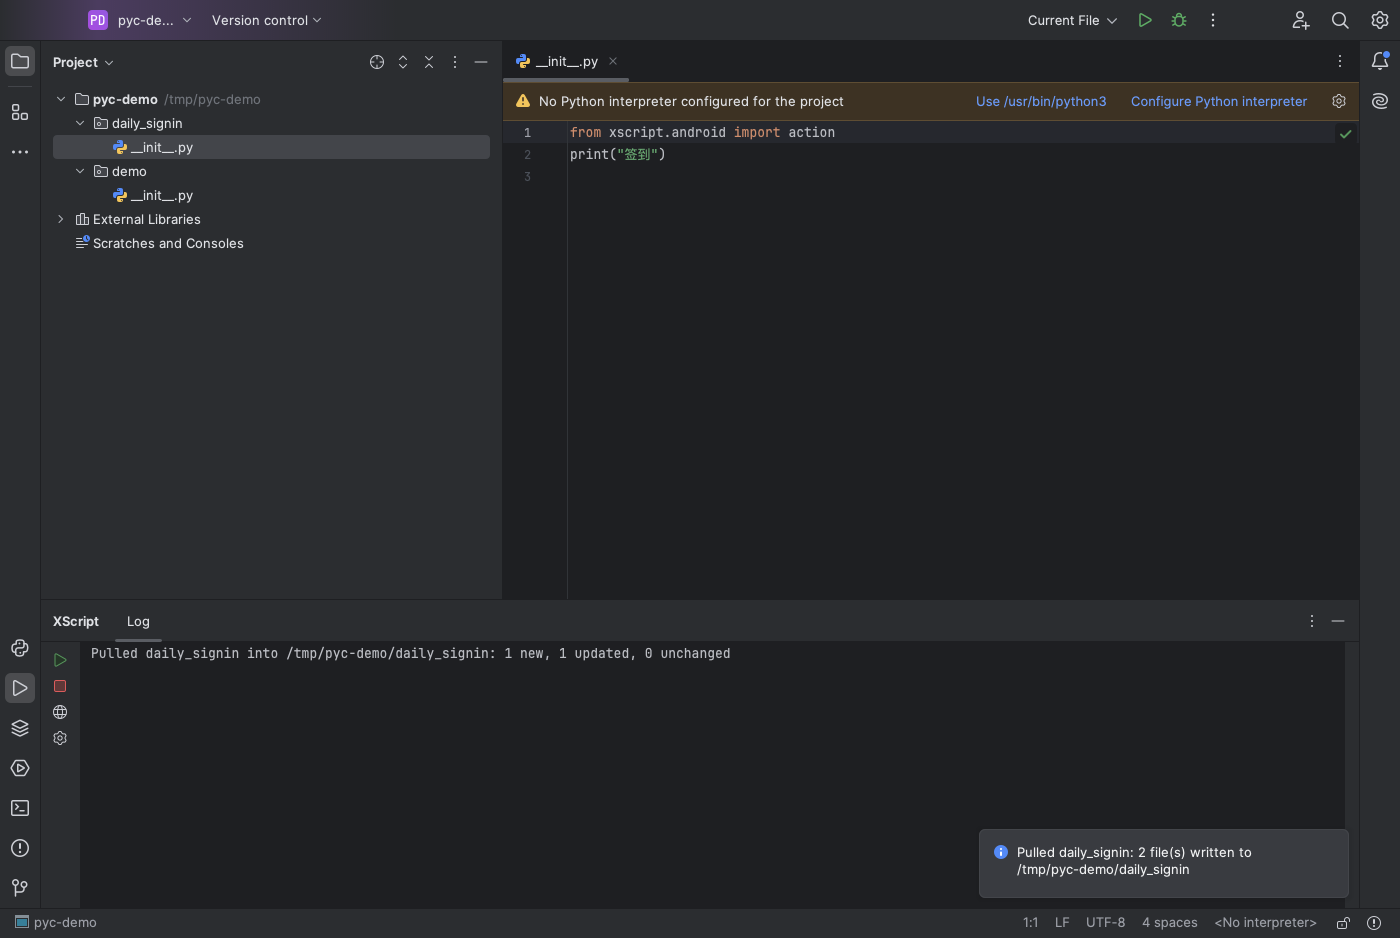
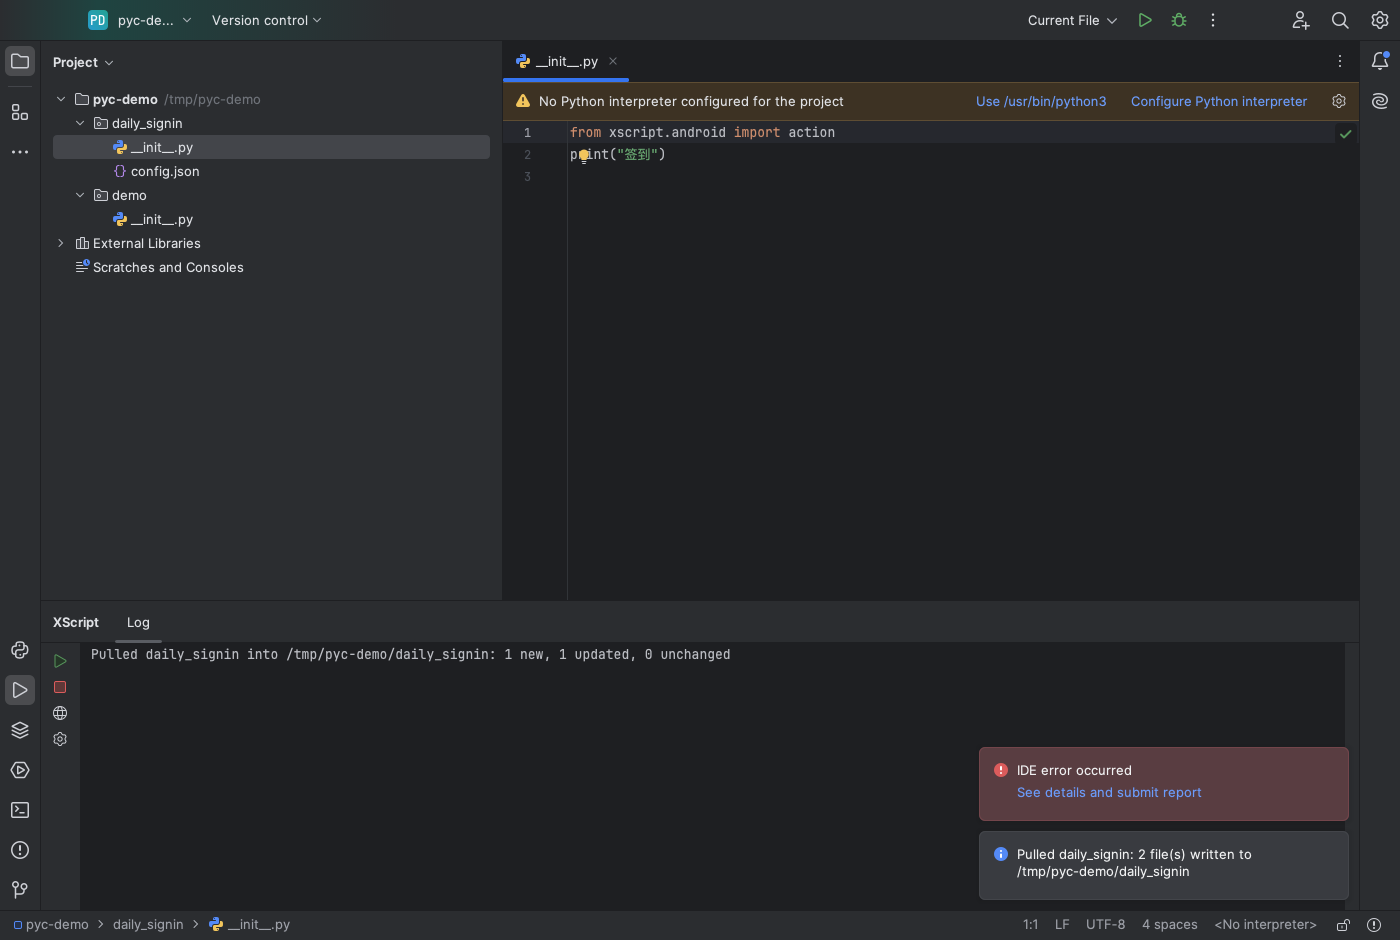
fix(pycharm): show pulled files in the project tree right away

diff --git a/ide/pycharm-plugin/src/test/kotlin/com/xscript/pycharm/PulledFilesTest.kt b/ide/pycharm-plugin/src/test/kotlin/com/xscript/pycharm/PulledFilesTest.kt
@@ -1,0 +1,40 @@
+package com.xscript.pycharm
+
+import com.intellij.openapi.application.ApplicationManager
+import com.intellij.openapi.fileEditor.FileDocumentManager
+import com.intellij.openapi.vfs.LocalFileSystem
+import com.intellij.testFramework.fixtures.BasePlatformTestCase
+import java.nio.file.Files
+
+/** After a pull the IDE already knows the new files and open documents show the new text, without any further refresh. */
+class PulledFilesTest : BasePlatformTestCase() {
+    fun testPulledFilesAreVisibleToTheIdeImmediately() {
+        val root = Files.createTempDirectory("xs-pulled-")
+        com.intellij.openapi.vfs.newvfs.impl.VfsRootAccess.allowRootAccess(testRootDisposable, root.toRealPath().toString())
+        try {
+            Files.writeString(root.resolve("__init__.py"), "print('old')\n")
+            val lfs = LocalFileSystem.getInstance()
+            val init = lfs.refreshAndFindFileByNioFile(root.resolve("__init__.py"))!!
+            val doc = FileDocumentManager.getInstance().getDocument(init)!!   // like an open editor
+            assertEquals("print('old')\n", doc.text)
+            assertNull(lfs.findFileByNioFile(root.resolve("config.json")))
+
+            val pulled = listOf(
+                ProjectPull.PulledFile("__init__.py", "print('new')\n".toByteArray()),
+                ProjectPull.PulledFile("config.json", "{}\n".toByteArray()),
+                ProjectPull.PulledFile("lib/a.py", "A = 1\n".toByteArray()),
+            )
+            var written = 0
+            // the pull runs in a background task; its synchronous refresh needs the EDT (this thread), so keep pumping events
+            val f = ApplicationManager.getApplication().executeOnPooledThread { written = PulledFiles.writeAndRefresh(project, root, pulled) }
+            com.intellij.testFramework.PlatformTestUtil.waitForFuture(f, 30_000)
+            assertEquals(3, written)
+            // no refresh here: the pull itself must have made them known
+            assertNotNull(lfs.findFileByNioFile(root.resolve("config.json")))
+            assertNotNull(lfs.findFileByNioFile(root.resolve("lib/a.py")))
+            assertEquals("print('new')\n", FileDocumentManager.getInstance().getDocument(init)!!.text)
+        } finally {
+            root.toFile().deleteRecursively()
+        }
+    }
+}

diff --git a/ide/pycharm-plugin/src/main/kotlin/com/xscript/pycharm/PulledFiles.kt b/ide/pycharm-plugin/src/main/kotlin/com/xscript/pycharm/PulledFiles.kt
@@ -1,0 +1,23 @@
+package com.xscript.pycharm
+
+import com.intellij.ide.projectView.ProjectView
+import com.intellij.openapi.application.ApplicationManager
+import com.intellij.openapi.project.Project
+import com.intellij.openapi.vfs.LocalFileSystem
+import com.intellij.openapi.vfs.VfsUtil
+import java.nio.file.Path
+
+/** IDE side of a pull: write the files, then make the VFS, open editors and the project tree show them right away. */
+object PulledFiles {
+    /**
+     * Writes new / changed files, rescans the folder synchronously (call it off the EDT, outside a read action), and asks the
+     * project view to rebuild: on its own the tree only noticed a pulled file after several seconds. Returns how many were written.
+     */
+    fun writeAndRefresh(project: Project, root: Path, pulled: List<ProjectPull.PulledFile>,
+                        diff: ProjectPull.Diff = ProjectPull.diff(root, pulled)): Int {
+        val written = ProjectPull.write(root, pulled, diff)
+        LocalFileSystem.getInstance().refreshAndFindFileByNioFile(root)?.let { VfsUtil.markDirtyAndRefresh(false, true, true, it) }
+        ApplicationManager.getApplication().invokeLater({ ProjectView.getInstance(project).refresh() }, project.disposed)
+        return written
+    }
+}

diff --git a/ide/pycharm-plugin/src/main/kotlin/com/xscript/pycharm/XScriptService.kt b/ide/pycharm-plugin/src/main/kotlin/com/xscript/pycharm/XScriptService.kt
@@ -154,11 +154,7 @@ class XScriptService(private val project: Project) : Disposable {
                         }
                         if (!ok) return@withPairing
                     }
-                    val written = ProjectPull.write(d, pulled, diff)
-                    // mark the folder dirty and rescan it before reporting, so open editors and the project tree show the pulled files
-                    com.intellij.openapi.vfs.LocalFileSystem.getInstance().refreshAndFindFileByNioFile(d)?.let {
-                        com.intellij.openapi.vfs.VfsUtil.markDirtyAndRefresh(false, true, true, it)
-                    }
+                    val written = PulledFiles.writeAndRefresh(project, d, pulled, diff)
                     print(XScriptBundle.message("log.pulled", n, d, diff.added.size, diff.changed.size, diff.unchanged.size) + "\n",
                         ConsoleViewContentType.SYSTEM_OUTPUT)
                     notify(XScriptBundle.message("notify.pulled", n, written, d), NotificationType.INFORMATION)
